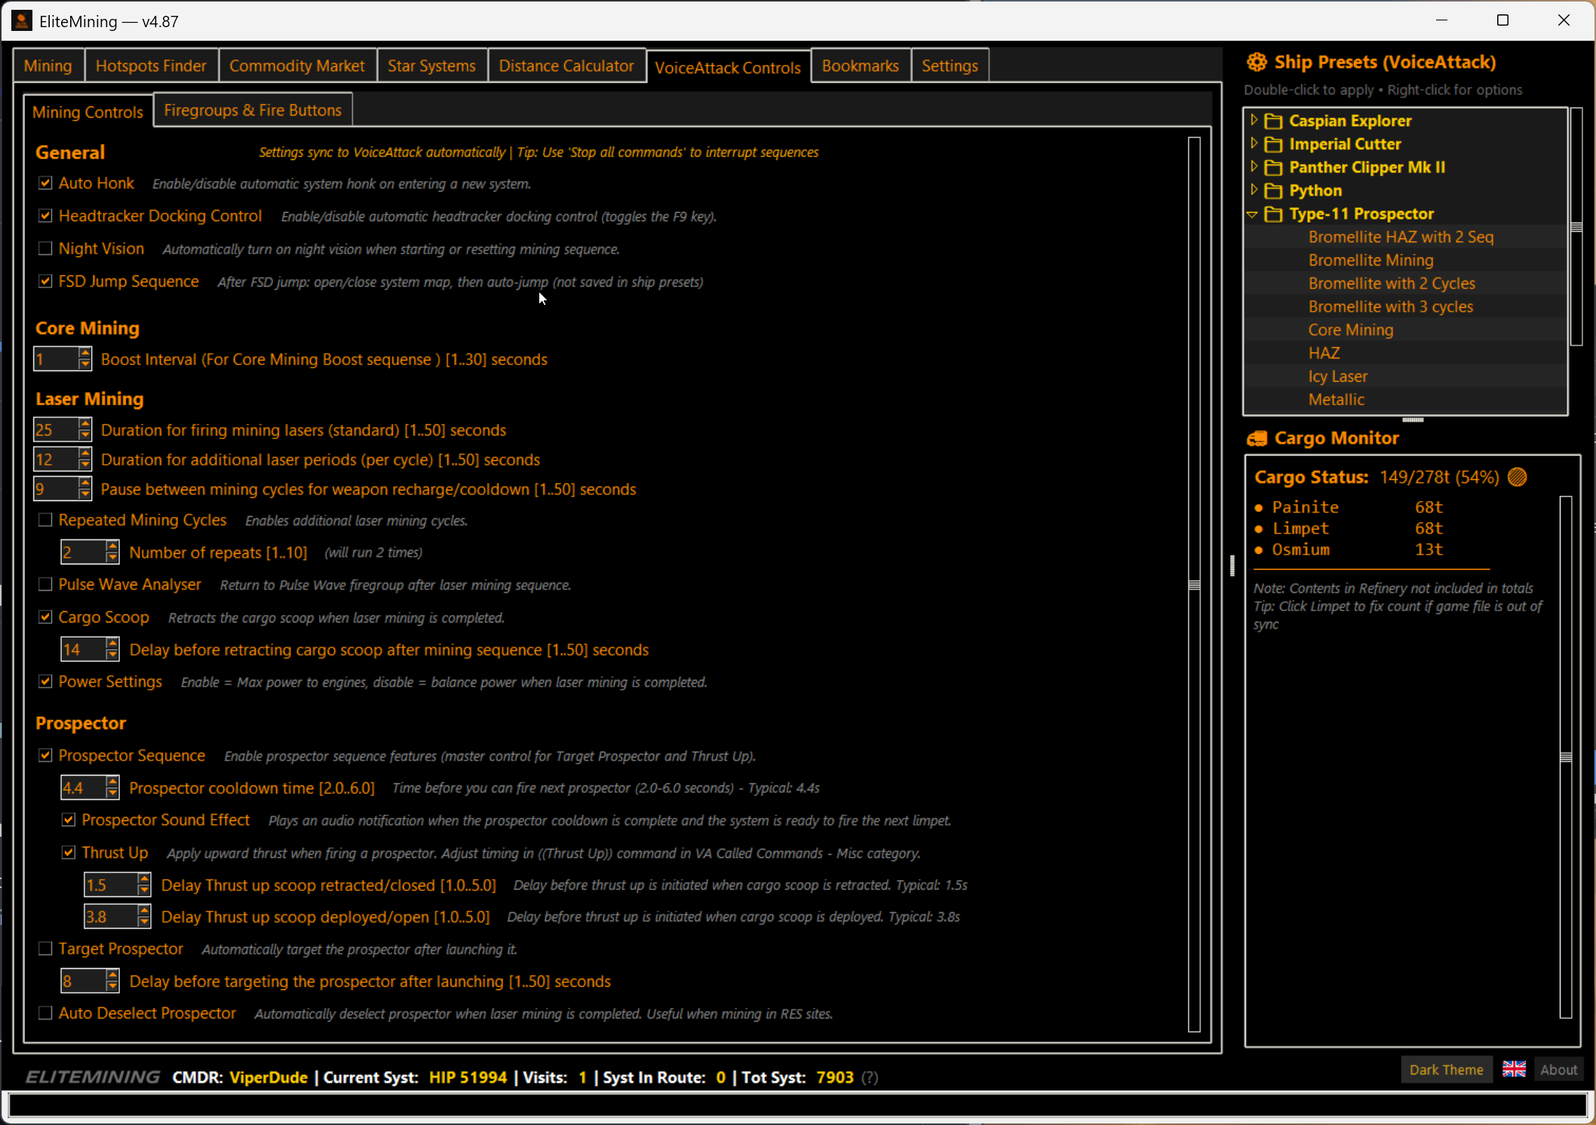
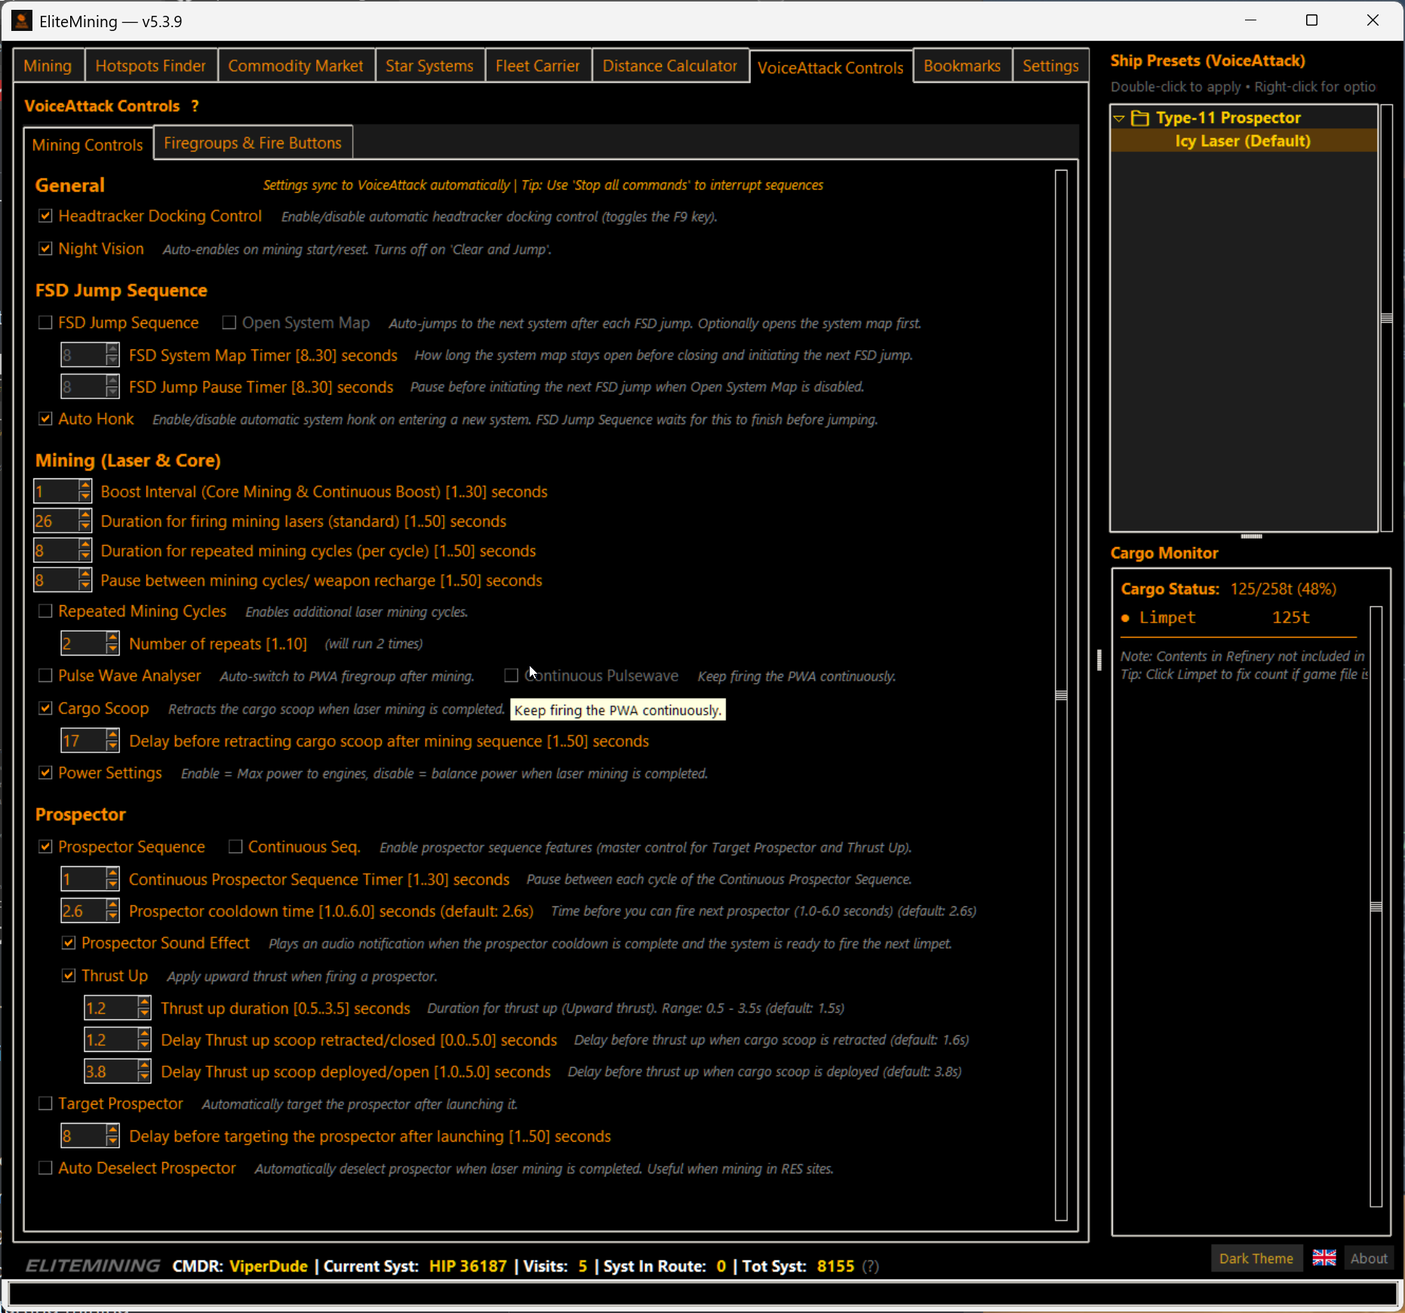
v5.3.9 - Split FSD Jump Sequence timer, add ship-preset support, move Auto Honk
Replace single FSD Jump Sequence timer with two independent timers:
System Map Timer (map-open duration) and Jump Pause Timer (map-closed
pause). Both range 8-30s. FSD Jump Sequence, Open System Map, both
timers, and Auto Honk are now saved as part of ship presets. Auto Honk
moved into the FSD Jump Sequence UI section but remains independent.
Document FSD Jump Sequence and Prospector Sequence controls in README.

Changed region(s): [[0.0, 0.0, 1.0, 1.0]]

diff --git a/app/main.py b/app/main.py
@@ -9632,7 +9632,8 @@ class App(tk.Tk, ColumnVisibilityMixin):
             "Delay before targeting the prospector after launching": "voiceattack.timer_target",
             "Delay before retracting cargo scoop after mining sequence": "voiceattack.timer_cargoscoop",
             "Boost Interval (Core Mining)": "voiceattack.timer_boost",
-            "FSD Jump Sequence Timer": "voiceattack.timer_fsd_jump",
+            "FSD Jump Pause Timer": "voiceattack.timer_fsd_jump_pause",
+            "FSD System Map Timer": "voiceattack.timer_fsd_system_map",
             "Continuous Prospector Sequence Timer": "voiceattack.timer_cont_prospector_seq",
         }
 
@@ -9644,7 +9645,8 @@ class App(tk.Tk, ColumnVisibilityMixin):
             "Delay before targeting the prospector after launching": "voiceattack.help_timer_target",
             "Delay before retracting cargo scoop after mining sequence": "voiceattack.help_timer_cargoscoop",
             "Boost Interval (Core Mining)": "voiceattack.help_timer_boost",
-            "FSD Jump Sequence Timer": "voiceattack.help_timer_fsd_jump",
+            "FSD Jump Pause Timer": "voiceattack.help_timer_fsd_jump_pause",
+            "FSD System Map Timer": "voiceattack.help_timer_fsd_system_map",
             "Continuous Prospector Sequence Timer": "voiceattack.help_timer_cont_prospector_seq",
         }
         
@@ -9685,8 +9687,8 @@ class App(tk.Tk, ColumnVisibilityMixin):
                  fg=_toggle_tip_fg, bg=_toggle_bg, font=self._scaled_font(8, "italic")).grid(row=0, column=1, sticky="")
         r += 1
         
-        # Controls toggles: Auto Honk, Headtracker, Night Vision
-        controls_toggles = ["Auto Honk", "Headtracker Docking Control", "Night Vision"]
+        # Controls toggles: Headtracker, Night Vision
+        controls_toggles = ["Headtracker Docking Control", "Night Vision"]
 
         for name in controls_toggles:
             if name not in TOGGLES:
@@ -9750,7 +9752,8 @@ class App(tk.Tk, ColumnVisibilityMixin):
                 self.toggle_vars[name].trace_add("write", lambda *args: self._update_fsdjump_dependencies())
 
             display_help = t(toggle_help_translations.get(name, name)) if name in toggle_help_translations else helptext
-            ToolTip(checkbox, display_help)
+            tooltip_help = t('voiceattack.tooltip_fsd_jump') if name == "FSD Jump Sequence" else display_help
+            ToolTip(checkbox, tooltip_help)
 
             # Open System Map checkbox on the same row (depends on FSD Jump Sequence being enabled)
             if name == "FSD Jump Sequence" and "Open System Map" in TOGGLES:
@@ -9765,62 +9768,95 @@ class App(tk.Tk, ColumnVisibilityMixin):
                 osm_checkbox.pack(side="left", padx=(12, 0))
                 self.toggle_checkboxes[osm_name] = osm_checkbox
                 self.toggle_vars[osm_name].trace_add("write", lambda *args, n=osm_name: self._save_toggle(n))
+                self.toggle_vars[osm_name].trace_add("write", lambda *args: self._update_fsdjump_dependencies())
                 ToolTip(osm_checkbox, osm_display_help)
 
             tk.Label(rowf, text=display_help, fg=_help_fg, bg=_toggle_bg,
                      font=self._scaled_font(8, "italic")).pack(side="left", padx=(10, 0))
             r += 1
 
-            # FSD Jump Sequence timer (indented, not part of ship presets - matches its toggle)
-            if name == "FSD Jump Sequence" and "FSD Jump Sequence Timer" in TIMERS:
-                fsdjump_timer_name = "FSD Jump Sequence Timer"
-                fsdjump_frame = ttk.Frame(scrollable_frame, style="Dark.TFrame")
-                fsdjump_frame.grid(row=r, column=0, sticky="w", pady=2)
-                tk.Label(fsdjump_frame, text="", bg=_toggle_bg, width=2).pack(side="left")
+            # FSD Jump Sequence timers (indented, part of ship presets - matches its toggle)
+            # "FSD System Map Timer" applies when Open System Map is checked;
+            # "FSD Jump Pause Timer" applies when Open System Map is unchecked.
+            if name == "FSD Jump Sequence":
+                self.fsdjump_timer_spinboxes = {}
+                for fsdjump_timer_name in ("FSD System Map Timer", "FSD Jump Pause Timer"):
+                    if fsdjump_timer_name not in TIMERS:
+                        continue
+                    fsdjump_frame = ttk.Frame(scrollable_frame, style="Dark.TFrame")
+                    fsdjump_frame.grid(row=r, column=0, sticky="w", pady=2)
+                    tk.Label(fsdjump_frame, text="", bg=_toggle_bg, width=2).pack(side="left")
 
-                _fsdjump_fname, fsdjump_lo, fsdjump_hi, fsdjump_helptext = TIMERS[fsdjump_timer_name]
+                    _fsdjump_fname, fsdjump_lo, fsdjump_hi, fsdjump_helptext = TIMERS[fsdjump_timer_name]
 
-                def make_save_fsdjump(tn, fn, l, h):
-                    return lambda: self._save_timer(tn, fn, l, h)
-                def make_trace_fsdjump(tn, fn, l, h):
-                    return lambda *args: self._save_timer(tn, fn, l, h)
+                    def make_save_fsdjump(tn, fn, l, h):
+                        return lambda: self._save_timer(tn, fn, l, h)
+                    def make_trace_fsdjump(tn, fn, l, h):
+                        return lambda *args: self._save_timer(tn, fn, l, h)
 
-                fsdjump_spinbox = tk.Spinbox(fsdjump_frame, from_=fsdjump_lo, to=fsdjump_hi, width=5,
-                                              textvariable=self.timer_vars[fsdjump_timer_name],
-                                              command=make_save_fsdjump(fsdjump_timer_name, _fsdjump_fname, fsdjump_lo, fsdjump_hi),
-                                              bg="#1e1e1e", fg=_toggle_fg, buttonbackground="#2d2d2d",
-                                              insertbackground=_toggle_fg, selectbackground="#4a6a8a",
-                                              relief="solid", bd=0, highlightthickness=1,
-                                              highlightbackground="#ffffff", highlightcolor="#ffffff",
-                                              font=self._scaled_font(9))
-                fsdjump_spinbox.pack(side="left", padx=(4, 6))
+                    fsdjump_spinbox = tk.Spinbox(fsdjump_frame, from_=fsdjump_lo, to=fsdjump_hi, width=5,
+                                                  textvariable=self.timer_vars[fsdjump_timer_name],
+                                                  command=make_save_fsdjump(fsdjump_timer_name, _fsdjump_fname, fsdjump_lo, fsdjump_hi),
+                                                  bg="#1e1e1e", fg=_toggle_fg, buttonbackground="#2d2d2d",
+                                                  insertbackground=_toggle_fg, selectbackground="#4a6a8a",
+                                                  disabledbackground="#1e1e1e", disabledforeground="#666666",
+                                                  relief="solid", bd=0, highlightthickness=1,
+                                                  highlightbackground="#ffffff", highlightcolor="#ffffff",
+                                                  font=self._scaled_font(9))
+                    fsdjump_spinbox.pack(side="left", padx=(4, 6))
+                    self.fsdjump_timer_spinboxes[fsdjump_timer_name] = fsdjump_spinbox
 
-                def on_fsdjump_scroll(event, var=self.timer_vars[fsdjump_timer_name], lo_val=fsdjump_lo, hi_val=fsdjump_hi):
-                    try:
-                        current = int(var.get())
-                        if event.delta > 0:
-                            new_val = min(current + 1, hi_val)
-                        else:
-                            new_val = max(current - 1, lo_val)
-                        var.set(new_val)
-                    except:
-                        pass
-                    return "break"
-                fsdjump_spinbox.bind("<MouseWheel>", on_fsdjump_scroll)
+                    def on_fsdjump_scroll(event, var=self.timer_vars[fsdjump_timer_name], lo_val=fsdjump_lo, hi_val=fsdjump_hi):
+                        try:
+                            current = int(var.get())
+                            if event.delta > 0:
+                                new_val = min(current + 1, hi_val)
+                            else:
+                                new_val = max(current - 1, lo_val)
+                            var.set(new_val)
+                        except:
+                            pass
+                        return "break"
+                    fsdjump_spinbox.bind("<MouseWheel>", on_fsdjump_scroll)
 
-                self.timer_vars[fsdjump_timer_name].trace_add("write",
-                    make_trace_fsdjump(fsdjump_timer_name, _fsdjump_fname, fsdjump_lo, fsdjump_hi))
+                    self.timer_vars[fsdjump_timer_name].trace_add("write",
+                        make_trace_fsdjump(fsdjump_timer_name, _fsdjump_fname, fsdjump_lo, fsdjump_hi))
 
-                fsdjump_display_name = t(timer_translations.get(fsdjump_timer_name, fsdjump_timer_name))
-                fsdjump_label = tk.Label(fsdjump_frame, text=f"{fsdjump_display_name} [{fsdjump_lo}..{fsdjump_hi}] {t('voiceattack.seconds')}",
-                                          bg=_toggle_bg, fg=_toggle_fg, font=self._scaled_font(9))
-                fsdjump_label.pack(side="left")
+                    fsdjump_display_name = t(timer_translations.get(fsdjump_timer_name, fsdjump_timer_name))
+                    fsdjump_label = tk.Label(fsdjump_frame, text=f"{fsdjump_display_name} [{fsdjump_lo}..{fsdjump_hi}] {t('voiceattack.seconds')}",
+                                              bg=_toggle_bg, fg=_toggle_fg, font=self._scaled_font(9))
+                    fsdjump_label.pack(side="left")
 
-                fsdjump_help = t(timer_help_translations.get(fsdjump_timer_name, fsdjump_timer_name))
-                ToolTip(fsdjump_label, fsdjump_help)
-                tk.Label(fsdjump_frame, text=fsdjump_help, fg=_help_fg, bg=_toggle_bg,
-                         font=self._scaled_font(8, "italic")).pack(side="left", padx=(10, 0))
-                r += 1
+                    fsdjump_help = t(timer_help_translations.get(fsdjump_timer_name, fsdjump_timer_name))
+                    ToolTip(fsdjump_label, fsdjump_help)
+                    tk.Label(fsdjump_frame, text=fsdjump_help, fg=_help_fg, bg=_toggle_bg,
+                             font=self._scaled_font(8, "italic")).pack(side="left", padx=(10, 0))
+                    r += 1
+
+                # Auto Honk (independent of FSD Jump Sequence)
+                if "Auto Honk" in TOGGLES:
+                    honk_name = "Auto Honk"
+                    _honk_fname, honk_helptext = TOGGLES[honk_name]
+
+                    honk_rowf = ttk.Frame(scrollable_frame, style="Dark.TFrame")
+                    honk_rowf.grid(row=r, column=0, sticky="w", pady=2)
+
+                    honk_checkbox = tk.Checkbutton(honk_rowf, text=honk_name, variable=self.toggle_vars[honk_name],
+                                            bg=_toggle_bg, fg=_toggle_fg, selectcolor=_toggle_bg,
+                                            activebackground=_toggle_bg, activeforeground=_toggle_fg,
+                                            highlightthickness=0, bd=0, font=self._scaled_font(9),
+                                            padx=4, pady=2, anchor="w")
+                    honk_checkbox.pack(side="left")
+
+                    self.toggle_checkboxes[honk_name] = honk_checkbox
+                    self.toggle_vars[honk_name].trace_add("write", lambda *args, n=honk_name: self._save_toggle(n))
+
+                    honk_display_help = t(toggle_help_translations.get(honk_name, honk_name)) if honk_name in toggle_help_translations else honk_helptext
+                    ToolTip(honk_checkbox, honk_display_help)
+
+                    tk.Label(honk_rowf, text=honk_display_help, fg=_help_fg, bg=_toggle_bg,
+                             font=self._scaled_font(8, "italic")).pack(side="left", padx=(10, 0))
+                    r += 1
 
         # ============================================================
         # LASER MINING SUB-SECTION
@@ -10513,13 +10549,21 @@ class App(tk.Tk, ColumnVisibilityMixin):
             print(f"Error updating pulsewave dependency: {e}")
 
     def _update_fsdjump_dependencies(self):
-        """Enable/disable Open System Map based on FSD Jump Sequence state"""
+        """Enable/disable Open System Map and its timers based on FSD Jump Sequence / Open System Map state"""
         try:
             if "FSD Jump Sequence" not in self.toggle_vars or "Open System Map" not in self.toggle_checkboxes:
                 return
             master_enabled = self.toggle_vars["FSD Jump Sequence"].get() == 1
             checkbox = self.toggle_checkboxes["Open System Map"]
             checkbox.configure(state="normal" if master_enabled else "disabled")
+
+            osm_enabled = master_enabled and self.toggle_vars["Open System Map"].get() == 1
+            spinboxes = getattr(self, "fsdjump_timer_spinboxes", {})
+            if "FSD System Map Timer" in spinboxes:
+                spinboxes["FSD System Map Timer"].configure(state="normal" if osm_enabled else "disabled")
+            if "FSD Jump Pause Timer" in spinboxes:
+                pause_enabled = master_enabled and not osm_enabled
+                spinboxes["FSD Jump Pause Timer"].configure(state="normal" if pause_enabled else "disabled")
         except Exception as e:
             print(f"Error updating FSD jump dependency: {e}")
 
@@ -11749,9 +11793,9 @@ class App(tk.Tk, ColumnVisibilityMixin):
                     "btn": (self.tool_btn[t].get() if t in self.tool_btn else None)}
                 for t in TOOL_ORDER
             },
-            "Toggles": {k: v.get() for k, v in self.toggle_vars.items() if k not in ("FSD Jump Sequence", "Open System Map")},
+            "Toggles": {k: v.get() for k, v in self.toggle_vars.items()},
             "Announcements": announcement_settings,
-            "Timers": {k: v.get() for k, v in self.timer_vars.items() if k != "FSD Jump Sequence Timer"},
+            "Timers": {k: v.get() for k, v in self.timer_vars.items()},
         }
         
         # Add laser mining extra repeat count if available
@@ -11789,13 +11833,12 @@ class App(tk.Tk, ColumnVisibilityMixin):
             # Migrate old toggle keys to new keys
             if k == "Target" or k == "Auto Deselect Target":
                 k = "Auto Deselect Prospector"
-            # Skip FSD Jump Sequence / Open System Map - not saved in presets
-            if k in self.toggle_vars and k not in ("FSD Jump Sequence", "Open System Map"):
+            if k in self.toggle_vars:
                 self.toggle_vars[k].set(int(v))
         # Toggles missing from an older preset default to off, so a discarded
         # in-memory change doesn't survive after re-loading the preset
         for k in self.toggle_vars:
-            if k not in ("FSD Jump Sequence", "Open System Map") and k not in toggles_data:
+            if k not in toggles_data:
                 self.toggle_vars[k].set(0)
         
         # Handle announcements: if section exists, load it; if not, set all to disabled (0)
@@ -11820,8 +11863,7 @@ class App(tk.Tk, ColumnVisibilityMixin):
                 k = "Duration for repeated mining cycles (per cycle)"
             if k == "Boost Interval (For Core Mining Boost sequense )":
                 k = "Boost Interval (Core Mining)"
-            # Skip FSD Jump Sequence Timer - it's not saved in presets
-            if k in self.timer_vars and k != "FSD Jump Sequence Timer":
+            if k in self.timer_vars:
                 self.timer_vars[k].set(int(v))
 
         # Load laser mining extra repeat count if available

diff --git a/app/core/constants.py b/app/core/constants.py
@@ -36,13 +36,13 @@ ANNOUNCEMENT_TOGGLES = {
 
 # Toggles and Timers
 TOGGLES = {
-    "Auto Honk": ("toggleHonk.txt", "Enable/disable automatic system honk on entering a new system."),
+    "Auto Honk": ("toggleHonk.txt", "Enable/disable automatic system honk on entering a new system. FSD Jump Sequence waits for this to finish before jumping."),
     "Cargo Scoop": ("cargoScoopToggle.txt", "Retracts the cargo scoop when laser mining is completed."),
     "Headtracker Docking Control": ("toggleHeadtracker.txt", "Enable/disable automatic headtracker docking control (toggles the F9 key)."),
     "Repeated Mining Cycles": ("laserminingextraToggle.txt", "Enables additional laser mining cycles."),
     # "Multi-Session Mode": ("multiSessionMode.txt", "Accumulate statistics across multiple cargo loads without resetting.")  # Removed - only available in Mining Analytics panel
     "Night Vision": ("nightvisionToggle.txt", "Auto-enables on mining start/reset. Turns off on 'Clear and Jump'."),
-    "FSD Jump Sequence": ("FsdSeqToggle.txt", "After FSD jump: open/close system map, then auto-jump (not saved in ship presets)"),
+    "FSD Jump Sequence": ("FsdSeqToggle.txt", "Auto-jumps to the next system after each FSD jump. Optionally opens the system map first."),
     "Open System Map": ("toggleSystem.txt", "Open/close the system map as part of the FSD Jump Sequence."),
     "Power Settings": ("powersettingsToggle.txt", "Enable = Max power to engines, disable = balance power when laser mining is completed."),
     "Prospector Sequence": ("prospectorSeq.txt", "Enable prospector sequence features (master control for Target Prospector and Thrust Up)."),
@@ -62,7 +62,8 @@ TIMERS = {
     "Delay before targeting the prospector after launching": ("delayTarget.txt", 1, 50, "Delay before targeting the prospector after launching."),
     "Delay before retracting cargo scoop after mining sequence": ("delayCargoscoop.txt", 1, 50, "Delay before retracting cargo scoop after mining sequence."),
     "Boost Interval (Core Mining)": ("boostinterval.txt", 1, 30, "Interval between boosts when scanning for cores."),
-    "FSD Jump Sequence Timer": ("FsdJumpTimer.txt", 1, 15, "Delay between opening/closing the system map and auto-jumping after an FSD jump."),
+    "FSD Jump Pause Timer": ("FsdJumpTimer.txt", 8, 30, "Pause before initiating the next FSD jump when Open System Map is disabled."),
+    "FSD System Map Timer": ("Fsd_System_map.txt", 8, 30, "How long the system map stays open before closing and initiating the next FSD jump."),
     "Continuous Prospector Sequence Timer": ("Cont_prospector_seq.txt", 1, 30, "Pause between each cycle of the Continuous Prospector Sequence."),
 }
 

diff --git a/README.md b/README.md
@@ -233,16 +233,34 @@ Control mining sequence timing and automated behaviors:
 **Timers:** Configure duration for laser periods, pauses, and delays (1-50 seconds range)
 
 **Toggles:**
-- **Auto Honk** – Scan system automatically on FSD arrival
 - **Cargo Scoop** – Auto-retract when mining completes
 - **Headtracker Docking Control** – Toggle headtracker (F9) for docking
 - **Laser Mining Extra** – Second laser period with cooldown pause
 - **Night Vision** – Auto-enable when starting mining
-- **FSD Jump Sequence** – Auto-chain jumps with system map toggle
 - **Power Settings** – Max engines during mining, balance when complete
 - **Prospector Sequence** – Auto-target prospector after launch
 - **Pulse Wave Analyser** – Auto-switch to PWA firegroup after mining
 - **Target** – Deselect prospector when mining completes
+
+**FSD Jump Sequence:**
+- **FSD Jump Sequence** – Auto-jumps to the next system after each FSD jump
+- **Open System Map** – Optionally opens/closes the system map before the jump
+- **FSD System Map Timer** (8-30s) – How long the map stays open, used when Open System Map is on
+- **FSD Jump Pause Timer** (8-30s) – Pause before the next jump, used when Open System Map is off
+- **Auto Honk** – Scan system automatically on FSD arrival; FSD Jump Sequence waits for this to finish, works independently of it
+
+All FSD Jump Sequence settings above are saved as part of ship presets.
+
+**Prospector:**
+- **Prospector Sequence** – Master control; enables Target Prospector and Thrust Up
+- **Continuous Seq.** – Keep repeating the prospector sequence automatically
+- **Continuous Prospector Sequence Timer** (1-30s) – Pause between each cycle of the Continuous Sequence
+- **Prospector cooldown time** (1.0-6.0s, default 2.6s) – Time before you can fire the next prospector
+- **Prospector Sound Effect** – Audio notification when the cooldown ends and the next limpet is ready to fire
+- **Thrust Up** – Apply upward thrust when firing a prospector
+  - **Thrust up duration** (0.5-3.5s, default 1.5s) – Duration of the upward thrust
+  - **Delay Thrust up scoop retracted/closed** (0.0-5.0s, default 1.6s) – Delay before thrust up when the cargo scoop is retracted
+  - **Delay Thrust up scoop deployed/open** (1.0-5.0s, default 3.8s) – Delay before thrust up when the cargo scoop is deployed
 
 💡 **Tip:** Use "Stop all profile commands" in VoiceAttack to interrupt any active sequence.
 

diff --git a/docs/PATCHNOTES_v5.3.9.md b/docs/PATCHNOTES_v5.3.9.md
@@ -3,13 +3,20 @@
 
 ## New Features & Improvements
 
-- Added a new "Continuous Prospector Sequence" option in VoiceAttack Controls. Turn it on to keep firing prospectors automatically without saying the command again.
-- The old single "General Timer" are replaced with separate timers for Core Mining boosting, FSD Jump Sequence (open system map duration), and Continuous Prospector Sequence, so each can be timed on its own.
+### VoiceAttack Controls
 
-- Added a new "Open System Map" option for the FSD Jump Sequence, so you can choose whether the system map opens and closes during the sequence.
+- Added "Continuous Prospector Sequence". Turn it on to keep firing prospectors automatically, without repeating the voice command.
+- Split the old "General Timer" into separate timers for Core Mining boosting, FSD Jump Sequence, and Continuous Prospector Sequence. Each now has its own timing.
+- Added "Open System Map" for the FSD Jump Sequence. Choose whether the system map opens and closes during the sequence.
+- The FSD Jump Sequence now has two timers instead of one:
+  - **System Map Timer** — how long the map stays open before the next jump (used when "Open System Map" is on).
+  - **Jump Pause Timer** — the pause before the next jump when "Open System Map" is off.
+- FSD Jump Sequence timers now range from 8 to 30 seconds (was 1 to 15).
+- Moved "Auto Honk" into the FSD Jump Sequence section. Still works independently, regardless of FSD Jump Sequence.
+- FSD Jump Sequence, Open System Map, both new timers, and Auto Honk are now saved as part of ship presets.
 
-### Voiceattack Profile updated to  (v5.3.9)
-
+### VoiceAttack Profile v5.3.9
+- Commands reorganized to match the changes above.
 
 ### Important Notes 
 
